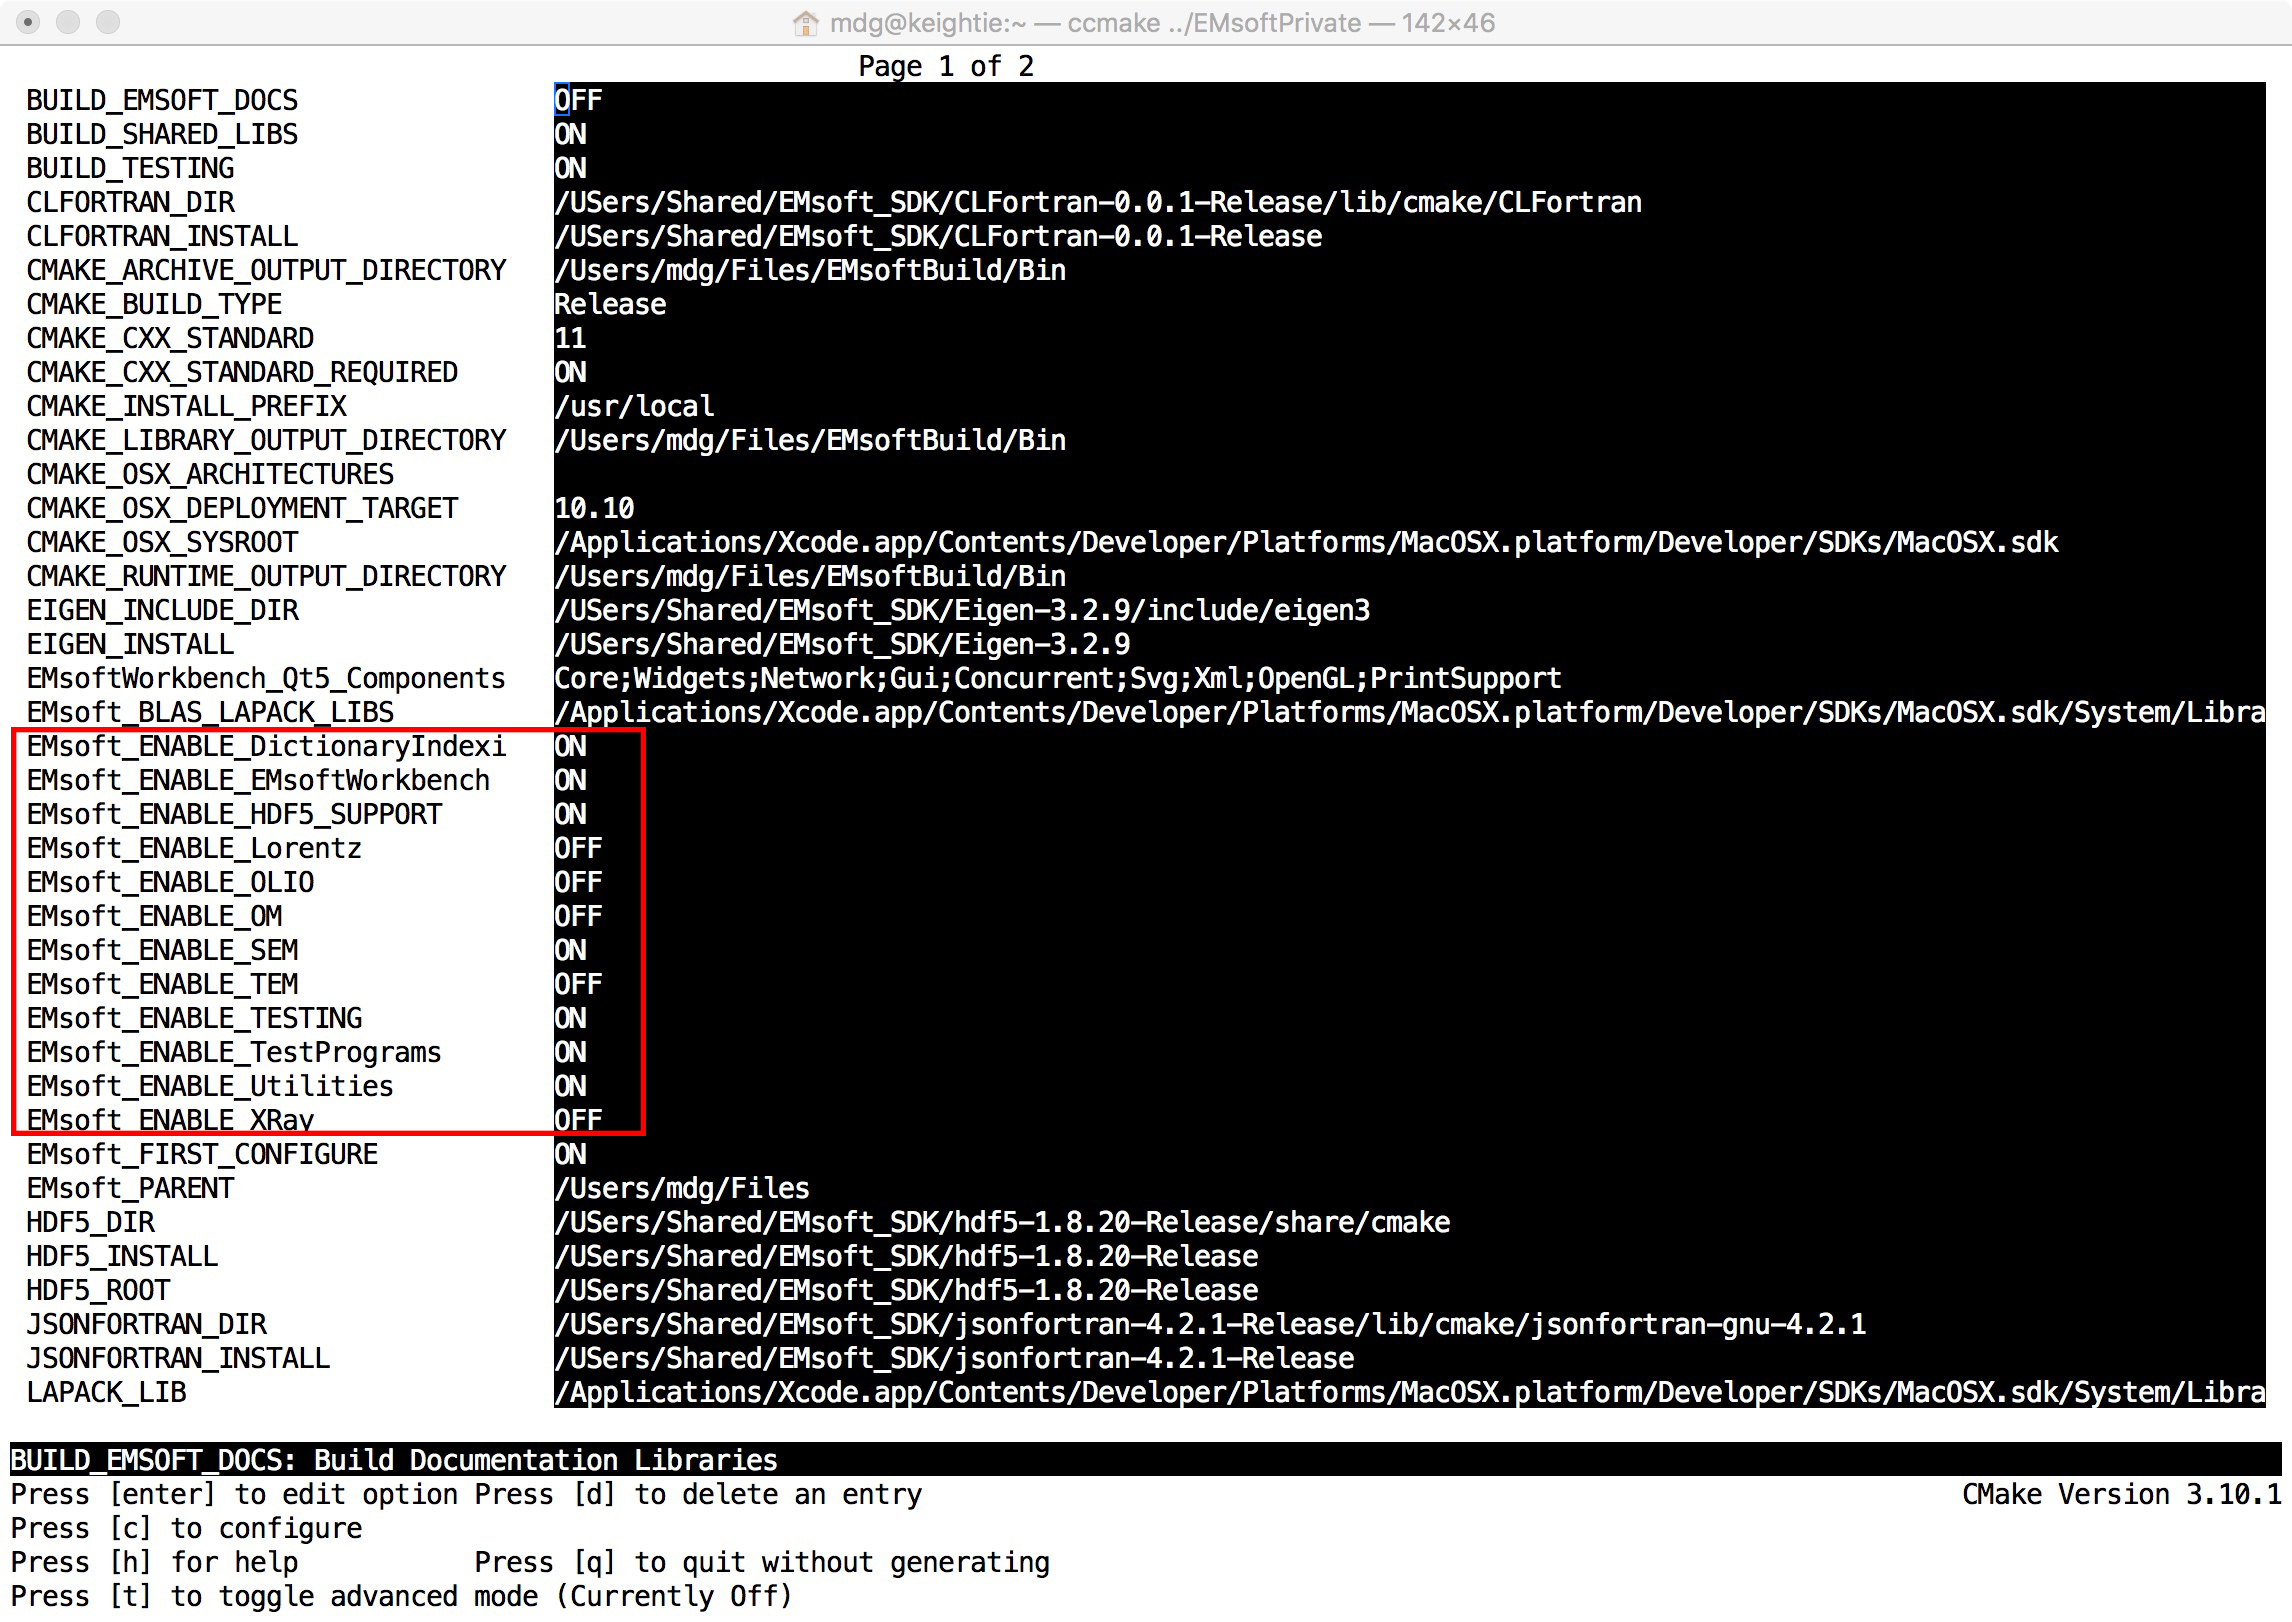
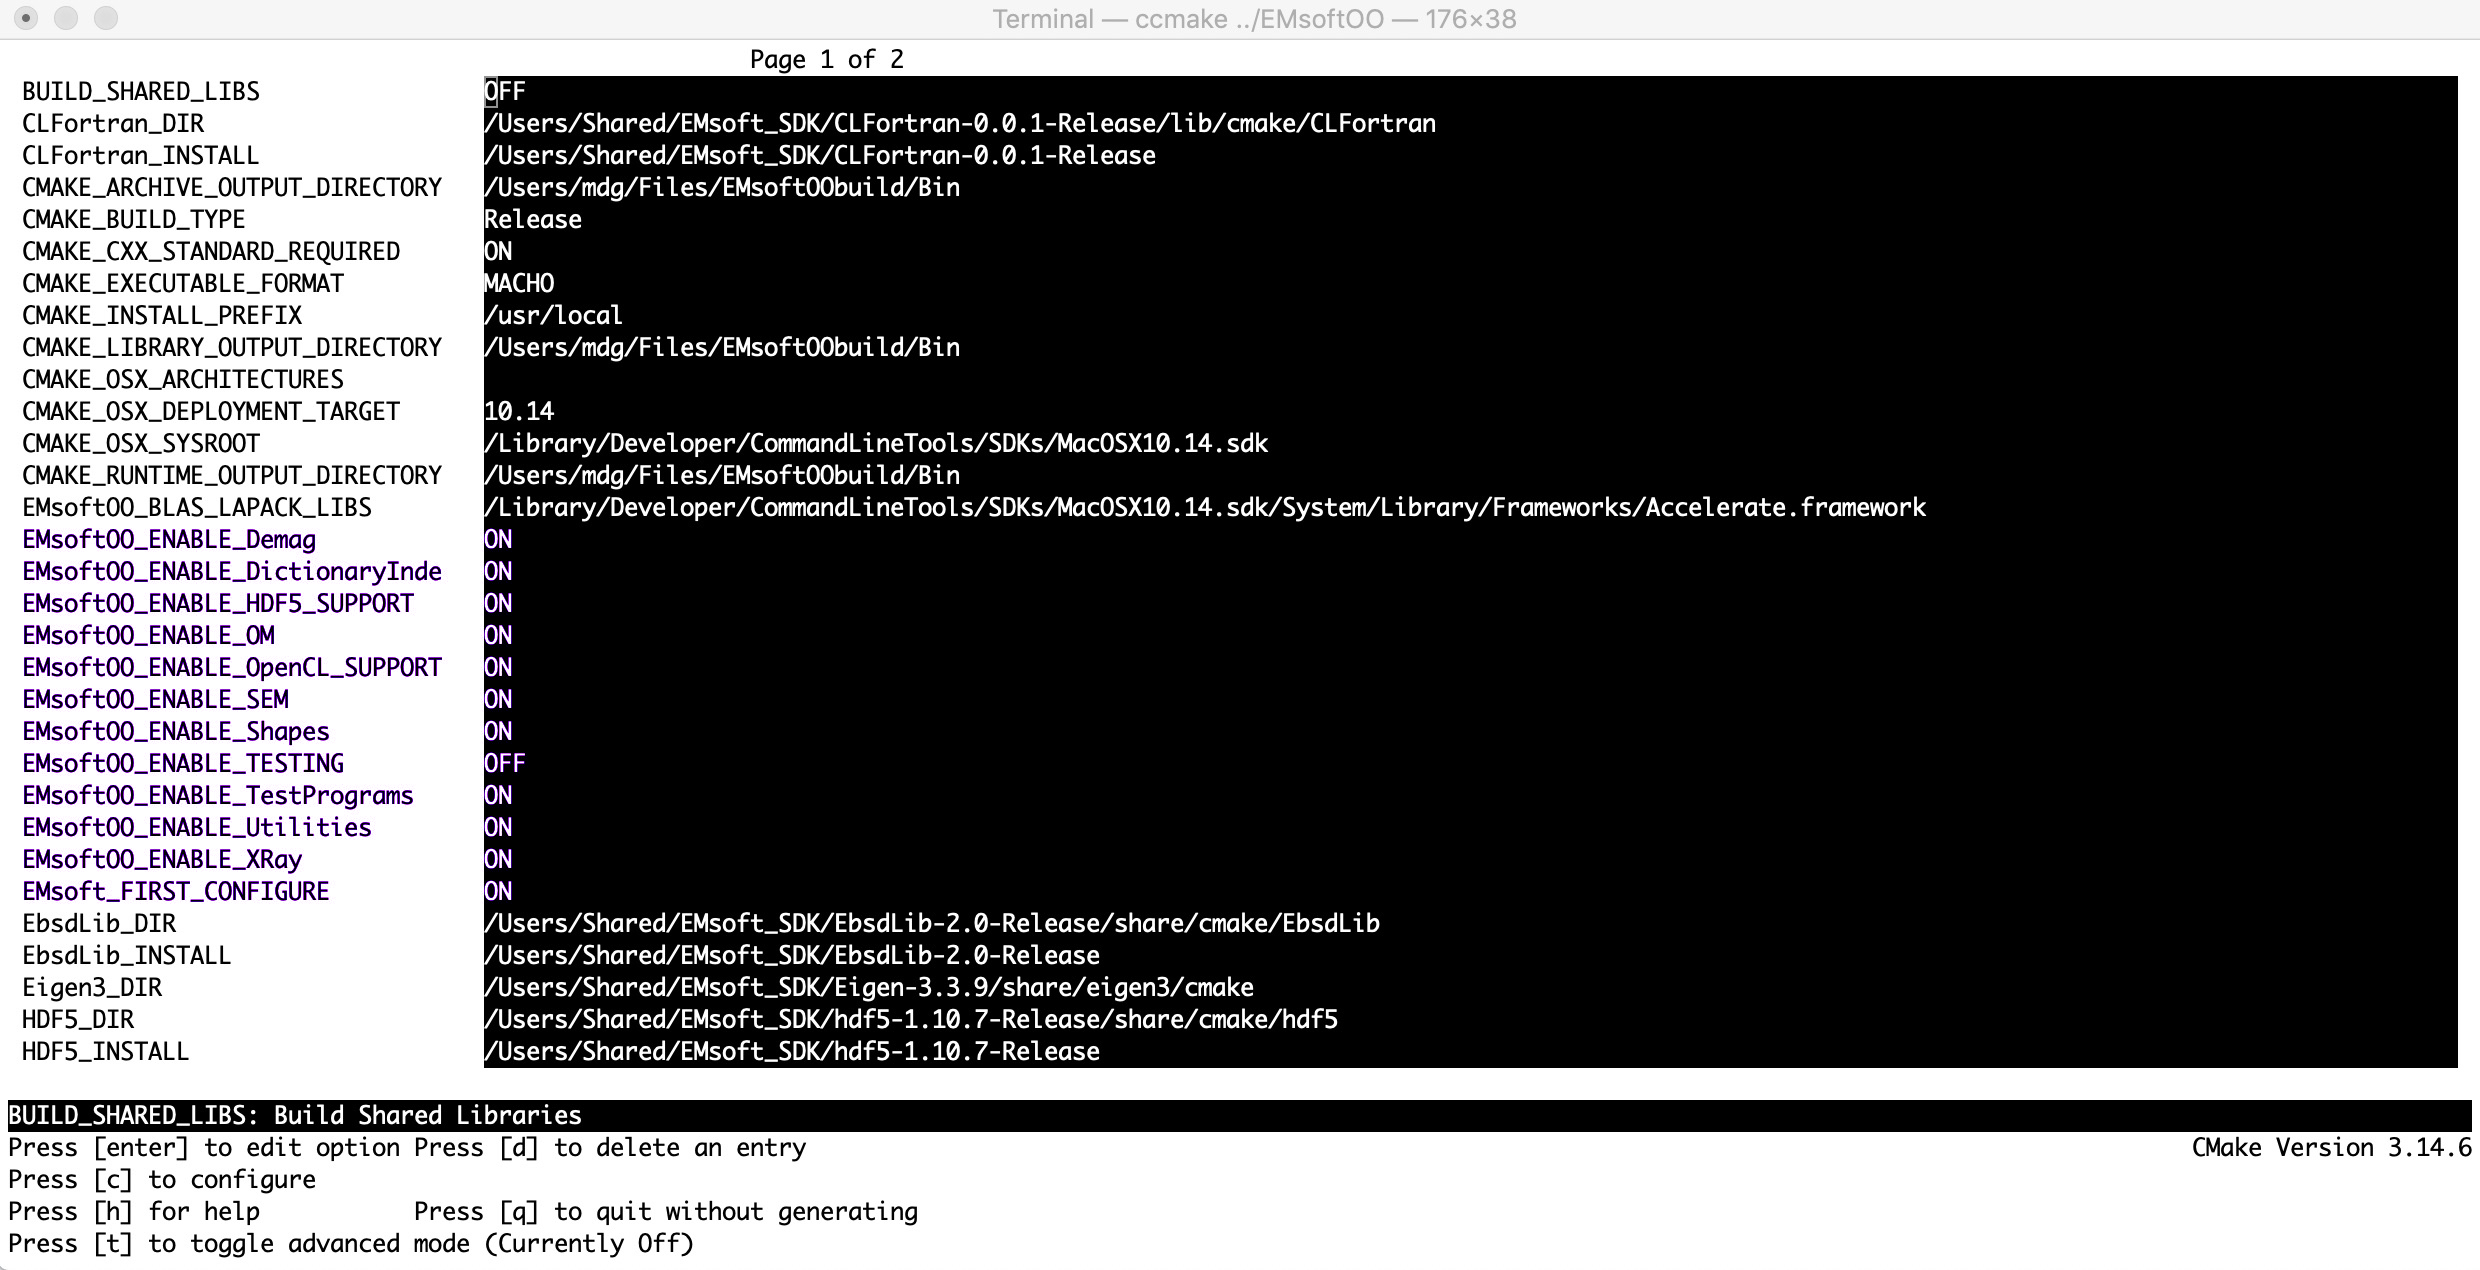
updates md files

Changed region(s): [[0.0, 0.0, 1.0, 1.0]]

diff --git a/README.md b/README.md
@@ -1,10 +1,96 @@
-# EMsoftOO
+# EMsoftOO (version 6.0 of EMsoft)
 
-A first attempt to convert the core of the EMsoft package to Object Oriented fortran-2018...
+This repository contains the source code for version 6.0 of the EMsoft package; the main difference between EMsoft 5.0 (https://github.com/EMsoft-org/EMsoft) and the present repository is the fact that EMsoftOO is entirely written in Object Oriented fortran-2018 (hence the letters "OO" at the end of EMsoftOO).  This is a complete rewrite of the original package and is mostly backwards compatible with version 5.0 in terms of the data files that are generated by various programs.  Most of the changes are "under the hood" and not really visible to the ordinary user (except perhaps that most of the programs appear to execute more quickly than those in version 5.0).  
 
-This project will start by generating a cell class for crystal structures; then we add a symmetry class for all the space group symmetries.  Combining those two will lead to a simple program to generate a crystal structure file, which will also require a new HDF class.
+EMsoftOO Version 6.0 should be considered a beta version; the code is still very much under development, and not all of the version 5.0 programs have been ported yet. Nevertheless, most of the SEM-related code has been converted and tested.  We are in the process of updating the wiki pages. 
 
-The goal is to learn how to work in this programming mode, while also creating a completely new version of EMsoft (in the long run...).
+### **This release of EMsoftOO requires an updated Software Developer Toolkit (SDK); please go to [this page](https://github.com/EMsoft-org/EMsoftSuperbuild) and follow the instructions to install a new SDK before you attempt to build the present release.**
 
+## Financial Support 
+EBSD/ECP/EKP development of this package, including dictionary indexing for EBSD/ECP, was started with support from an AFOSR/MURI grant, FA9550-12-1-0458; the original EBSD code from CTEMsoft 2.0 was developed with support from an ONR grant, N00014-12-1-0075.  All recent development of EMsoft was performed with support from an ONR Vannevar Bush Faculty Fellowship, N00014-16-1-2821, and an NSF research program DMR \#1904629.
 
+## Current and Past Contributors
+EMsoft started as a source code base used for the creation of all figures in the *Introduction to Conventional Transmission Electron Microscopy* text book (Cambridge University Press, 2003, ISBN 0521629950) by M. De Graef.  It has since grown into an open source project that has had many contributors and testers over the past nearly 20 years (in no particular order):
+
+- Patrick Callahan
+- Saransh Singh
+- Stuart Wright
+- Elena Pascal
+- Will Lenthe
+- Chaoyi Zhu
+- Clément Lafond
+- Joseph Tessmer
+- Ke-Wei Jin
+- Michael Atkinson
+- Joao Fonseca
+- Michael Jackson
+- Joey Kleingers
+- Håkon Wiik Ånes
+- McLean Echlin
+
+## Installation 
+
+If you want to build EMsoftOO yourself, it would make sense to first get a GitHub account, and fork this repository into your account. Then clone the repo *from your account* onto your local computer. Before you can compile things, you need to first build the Software Developer Kit (EMsoft_SDK), which you can find [here](https://github.com/EMsoft-org/EMsoftSuperbuild); follow the instructions for your platform. In addition, you will need to clone the *EMsoftData* repository, also from *EMsoft-org*, in a folder at the same level as the main repository folder. 
+
+Then, starting in the top folder where you have cloned the EMsoftOO repository, carry out the following commands (for UNIX-type builds; on Windows, use nmake instead of make):
+
+```fortran
+  mkdir EMsoftOOBuild
+  cd EMsoftOOBuild
+  mkdir Release
+  cd Release
+  cmake -DCMAKE_BUILD_TYPE=Release -DEMsoft_SDK=/somepath/EMsoft_SDK ../../EMsoftOO
+  make -j
+  cd ../
+  mkdir Debug
+  cd Debug
+  cmake -DCMAKE_BUILD_TYPE=Debug -DEMsoft_SDK=/somepath/EMsoft_SDK ../../EMsoftOO
+  make -j
+
+```
+Note that *somepath* should be replaced with wherever you installed the SDK.  These commands should compile both a Release and a Debug version of EMsoftOO. You can then add the path to the EMsoftOOBuild/Release/Bin folder to your shell path and start using the programs.  Note that the Debug version of the executables will run much more slowly than the Release version, but, if something goes wrong during the run, the error message of the Debug version will nearly always be more informative than for the Release version.
+
+To always maintain an up-to-date version of the package, you may want to create a little script that will help you synchronize the repositories and compile in one step.  Here is an example shell script for UNIX-flavored systems; the assumptions are that the EMsoftOO repository has been cloned into the folder EMsoftOOPublic, and the EMsoftData repository into EMsoftData:
+
+```fortran
+cd EMsoftData
+git pull --rebase origin develop
+cd ../EMsoftOOPublic
+git pull --rebase origin develop
+cd ../EMsoftOOBuild
+make -j
+
+```
+
+If you do not need the complete EMsoftOO package, you can compile sections of the package (e.g., SEM modalities only) by setting CMake switches using the ccmake GUI program, as described in the ccmake-options.md file. 
+
+## Licenses ##
+
+	!###################################################################
+	! Copyright (c) 2013-2022, Marc De Graef Research Group/Carnegie Mellon University
+	! All rights reserved.
+	!
+	! Redistribution and use in source and binary forms, with or without modification, are 
+	! permitted provided that the following conditions are met:
+	!
+	!     - Redistributions of source code must retain the above copyright notice, this list 
+	!        of conditions and the following disclaimer.
+	!     - Redistributions in binary form must reproduce the above copyright notice, this 
+	!        list of conditions and the following disclaimer in the documentation and/or 
+	!        other materials provided with the distribution.
+	!     - Neither the names of Marc De Graef, Carnegie Mellon University nor the names 
+	!        of its contributors may be used to endorse or promote products derived from 
+	!        this software without specific prior written permission.
+	!
+	! THIS SOFTWARE IS PROVIDED BY THE COPYRIGHT HOLDERS AND CONTRIBUTORS "AS IS" 
+	! AND ANY EXPRESS OR IMPLIED WARRANTIES, INCLUDING, BUT NOT LIMITED TO, THE 
+	! IMPLIED WARRANTIES OF MERCHANTABILITY AND FITNESS FOR A PARTICULAR PURPOSE 
+	! ARE DISCLAIMED. IN NO EVENT SHALL THE COPYRIGHT HOLDER OR CONTRIBUTORS BE 
+	! LIABLE FOR ANY DIRECT, INDIRECT, INCIDENTAL, SPECIAL, EXEMPLARY, OR CONSEQUENTIAL 
+	! DAMAGES (INCLUDING, BUT NOT LIMITED TO, PROCUREMENT OF SUBSTITUTE GOODS OR 
+	! SERVICES; LOSS OF USE, DATA, OR PROFITS; OR BUSINESS INTERRUPTION) HOWEVER 
+	! CAUSED AND ON ANY THEORY OF LIABILITY, WHETHER IN CONTRACT, STRICT LIABILITY, 
+	! OR TORT (INCLUDING NEGLIGENCE OR OTHERWISE) ARISING IN ANY WAY OUT OF THE 
+	! USE OF THIS SOFTWARE, EVEN IF ADVISED OF THE POSSIBILITY OF SUCH DAMAGE.
+	! ###################################################################
 

diff --git a/ccmake-options.md b/ccmake-options.md
@@ -1,0 +1,14 @@
+## Compiling sections of EMsoftOO
+
+EMsoftOO contains a large number of programs for a number of electron scattering modalities as well as other modalities (optical microscopy, XRD, ...). Compilation of different modalities can be controlled by means of *CMake* switches that can be accessed readily using the *ccmake* program. When the following command is executed inside the *EMsoftOOBuild/Release* folder in a command window:
+
+```fortran
+  ccmake ../../EMsoftOO
+```
+a simple interface showing name-value pairs appears; a screen shot of the interface on Mac OS X is shown here: 
+
+![Screen shot of ccmake, showing the EMsoft configuration switches](resources/ccmake-screenshot.jpeg)
+
+The parameters are listed on the left, their values on the right inside the dark background box. Use the arrow keys to navigate the cursor to a particular value field; hit *enter* to activate editing of the field if it is a text field, or to toggle its value between all possible values. In an editable field, press *enter* again to leave editing mode.  The highlighted entries represent a number of switches that can be used to control compilation; for instance, to turn compilation of all utility programs off, navigate to the *EMsoft\_enable\_Utilities* switch and toggle its value to *OFF*.  When all parameters have been set correctly, hit the *c*-key to configure, then the *g*-key to generate the new make files; if any asterisks appear in front of value fields, press the *c*-key again until no more asterisks are present. The program will terminate when the generation process ends; recompile the EMsoftOO package using *make -j* or *nmake*, depending on your platform. If only EBSD dictionary indexing is needed, it is sufficient to turn all switches to *OFF*, except for *EMsoft\_enable\_DictionaryIndexing*, *EMsoft\_enable\_SEM*, *EMsoft\_enable\_HDF5\_SUPPORT*, *EMsoft\_enable\_OpenCL\_SUPPORT*, and *EMsoft\_enable\_Utilities*.
+
+Note that the *EMsoftWorkbench* is not compatible (yet) with EMsoftOO; you will need to continue to use EMsoft version 5.0 to build the workbench.
